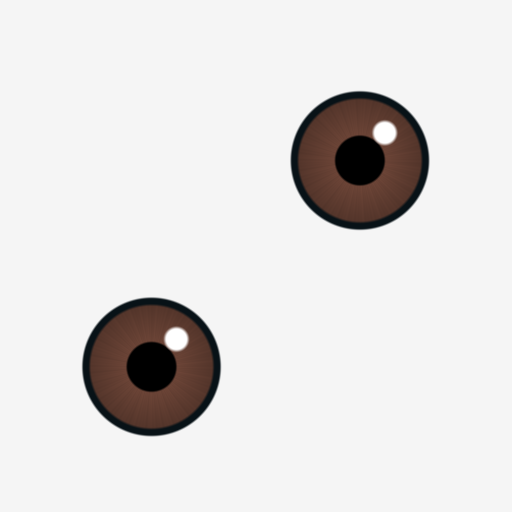
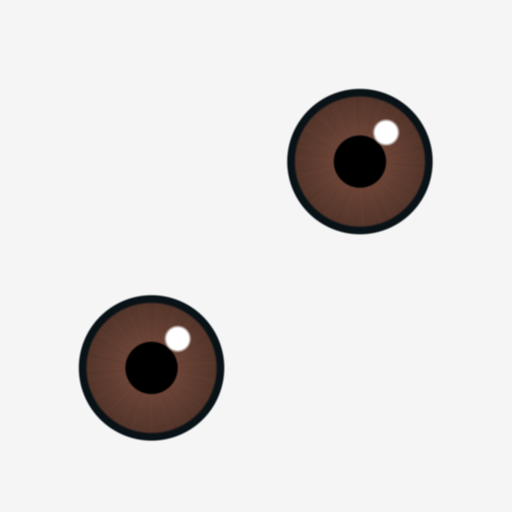
Round 42 (4.75 by two judges): iris between, old man's lid lower and eyebrow smaller

diff --git a/tools/parle_style.py b/tools/parle_style.py
@@ -18,7 +18,8 @@ import numpy as np
 # and much further out; its old man's is the biggest thing on his face.
 STYLE = {
     "male": {"forward": 1.25, "nose": 1.6, "tip": 1.5, "brow": 1.4, "eye": 1.25, "skin": 1.55},
-    "male-old": {"forward": 1.3, "nose": 2.0, "tip": 1.65, "brow": 2.8, "eye": 1.25, "skin": 1.55},
+    # Round 41: the old man's eyebrow a flat white patch over the glasses (2.8) and his eye white all about the iris (`lid` in SCULPT lower).
+    "male-old": {"forward": 1.3, "nose": 2.0, "tip": 1.65, "brow": 2.0, "eye": 1.25, "skin": 1.55},
     "female": {"forward": 0.8, "nose": 1.45, "tip": 1.3, "brow": 1.2, "eye": 1.12, "skin": 1.55},
     "female-old": {"forward": 0.85, "nose": 1.65, "tip": 1.4, "brow": 1.9, "eye": 1.12, "skin": 1.55},
 }
@@ -132,7 +133,7 @@ def warmer(rgb, amount):
 # to its form a point goes.
 SCULPT = {
     "male": {"nose_ball": (0.41, 0.42, 0.33), "nose_share": 0.95, "cheek": 0.55, "cheek_share": 0.55, "shell": 0.28, "chin": 0.5, "lid": 0.1, "ridge": 0.0},
-    "male-old": {"nose_ball": (0.44, 0.46, 0.38), "nose_share": 0.95, "cheek": 0.62, "cheek_share": 0.85, "shell": 0.3, "chin": 0.45, "lid": -0.06, "ridge": 0.0},
+    "male-old": {"nose_ball": (0.44, 0.46, 0.38), "nose_share": 0.95, "cheek": 0.62, "cheek_share": 0.85, "shell": 0.3, "chin": 0.45, "lid": -0.16, "ridge": 0.0},
     "female": {"nose_ball": (0.28, 0.28, 0.24), "nose_share": 0.9, "cheek": 0.54, "cheek_share": 0.6, "shell": 0.22, "chin": 0.36, "lid": -0.02, "ridge": 0.0},
     "female-old": {"nose_ball": (0.32, 0.32, 0.28), "nose_share": 0.9, "cheek": 0.62, "cheek_share": 0.85, "shell": 0.24, "chin": 0.38, "lid": -0.08, "ridge": 0.0},
 }

diff --git a/tools/eye_texture.py b/tools/eye_texture.py
@@ -29,7 +29,8 @@ CENTRES = ((0.703, 0.273), (0.296, 0.676))
 # Round 25: with the lid lifted, an iris filling more of the width (about 55 to 60 % of it in the series).
 # Round 31: the iris still "pequena, com branco dos dois lados" on all four.
 # Round 40 (two judges): the iris fills the opening lid to lid and the eye reads as a dark disc; one judge asked it 30 % smaller.
-IRIS_RADIUS = 0.135
+# Round 41 (5.0): both judges asked the iris 10 to 15 % bigger within the same eye: between.
+IRIS_RADIUS = 0.142
 # The cast has no eye bones and the globe rests looking slightly up: without this the pupil touches the upper lid.
 # Measured on a woman of the cast (2026-11-12), the lids opened from 5 to 8 degrees above the middle of the iris to 21 to 27 below
 # it: at 0.2 the upper lid still lay across the top of the pupil. With the lids as they are now (`parle_face.FAIR_LOOK`), at 0.3
